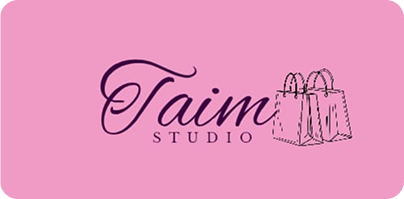
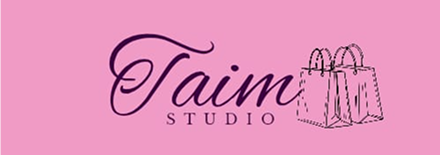
heading in bouquet added 2 more bouquets landing page edited. add separate bouquet coupon codes

diff --git a/src/components/CheckoutForm.jsx b/src/components/CheckoutForm.jsx
@@ -16,6 +16,7 @@ export default function CheckoutForm({ totalPrice, deliveryCharge, onSubmit, onB
   const [isCouponApplied, setIsCouponApplied] = useState(false);
   const [couponMessage, setCouponMessage] = useState('');
   const [appliedCouponCode, setAppliedCouponCode] = useState('');
+  const [couponDiscount, setCouponDiscount] = useState(0);
 
   const handleChange = (e) => {
     const { name, value } = e.target;
@@ -27,6 +28,21 @@ export default function CheckoutForm({ totalPrice, deliveryCharge, onSubmit, onB
 
   const handleApplyCoupon = () => {
     const trimmedCode = couponCode.trim().toUpperCase();
+    if (orderType === 'bouquets') {
+      if (trimmedCode === 'BLOOM10') {
+        const discount = Math.round(totalPrice * 0.1);
+        setAppliedCouponCode('BLOOM10');
+        setIsCouponApplied(true);
+        setCouponDiscount(discount);
+        setCouponMessage('🎉 10% discount applied!');
+      } else {
+        setIsCouponApplied(false);
+        setCouponDiscount(0);
+        setCouponMessage('Invalid coupon code');
+      }
+      return;
+    }
+
     if (trimmedCode.endsWith('LOVE14')) {
       setAppliedCouponCode(couponCode.trim());
       setIsCouponApplied(true);
@@ -45,7 +61,8 @@ export default function CheckoutForm({ totalPrice, deliveryCharge, onSubmit, onB
     setAppliedCouponCode('');
     setIsCouponApplied(false);
     setCouponMessage('');
-    if (onFreebieRemove) {
+    setCouponDiscount(0);
+    if (orderType !== 'bouquets' && onFreebieRemove) {
       onFreebieRemove();
     }
   };
@@ -69,12 +86,13 @@ export default function CheckoutForm({ totalPrice, deliveryCharge, onSubmit, onB
       onSubmit({
         ...formData,
         couponCode: appliedCouponCode,
+        couponDiscount,
       });
     }
   };
 
   const subtotal = totalPrice;
-  const finalTotal = subtotal + deliveryCharge;
+  const finalTotal = subtotal - couponDiscount + deliveryCharge;
 
   return (
     <div className="screen checkout-screen">
@@ -96,10 +114,17 @@ export default function CheckoutForm({ totalPrice, deliveryCharge, onSubmit, onB
             <span>₹{subtotal}</span>
           </div>
           {isCouponApplied && (
-            <div className="summary-row freebie-added">
-              <span>🎁 Surprise Freebie:</span>
-              <span>FREE</span>
-            </div>
+            orderType === 'bouquets' ? (
+              <div className="summary-row discount-row">
+                <span>Coupon (BLOOM10) - 10%:</span>
+                <span>-₹{couponDiscount}</span>
+              </div>
+            ) : (
+              <div className="summary-row freebie-added">
+                <span>🎁 Surprise Freebie:</span>
+                <span>FREE</span>
+              </div>
+            )
           )}
           {deliveryCharge > 0 && (
             <div className="summary-row">
@@ -113,39 +138,37 @@ export default function CheckoutForm({ totalPrice, deliveryCharge, onSubmit, onB
           </div>
         </div>
 
-        {orderType !== 'bouquets' && (
-          <div className="coupon-section">
-            <h3>Have a Coupon Code?</h3>
-            <div className="coupon-input-group">
-              <input
-                type="text"
-                value={couponCode}
-                onChange={(e) => setCouponCode(e.target.value)}
-                placeholder="Enter coupon code"
-                className="coupon-input"
-                disabled={isCouponApplied}
-              />
-              <button
-                type="button"
-                onClick={handleApplyCoupon}
-                className="btn btn-apply"
-                disabled={isCouponApplied}
-              >
-                Apply
-              </button>
-            </div>
-            {couponMessage && (
-              <p className={`coupon-message ${isCouponApplied ? 'success' : 'error'}`}>
-                {couponMessage}
-              </p>
-            )}
-            {isCouponApplied && (
-              <p className="remove-coupon" onClick={handleRemoveCoupon}>
-                Remove coupon
-              </p>
-            )}
+        <div className="coupon-section">
+          <h3>Have a Coupon Code?</h3>
+          <div className="coupon-input-group">
+            <input
+              type="text"
+              value={couponCode}
+              onChange={(e) => setCouponCode(e.target.value)}
+              placeholder={orderType === 'bouquets' ? 'Enter Coupon Code' : 'Enter coupon code'}
+              className="coupon-input"
+              disabled={isCouponApplied}
+            />
+            <button
+              type="button"
+              onClick={handleApplyCoupon}
+              className="btn btn-apply"
+              disabled={isCouponApplied}
+            >
+              Apply
+            </button>
           </div>
-        )}
+          {couponMessage && (
+            <p className={`coupon-message ${isCouponApplied ? 'success' : 'error'}`}>
+              {couponMessage}
+            </p>
+          )}
+          {isCouponApplied && (
+            <p className="remove-coupon" onClick={handleRemoveCoupon}>
+              Remove coupon
+            </p>
+          )}
+        </div>
 
         {/* Form */}
         <form onSubmit={handleSubmit} className="checkout-form">

diff --git a/src/data/catalog.js b/src/data/catalog.js
@@ -91,8 +91,8 @@ export const VALENTINE_DAYS = [
       {
         category: "Others Products",
         items: [
-          { id: "vo1", name: "Silver Couple Rings", price: 2499, image: "/products/promise_silver_rings_2499.jpeg" },
           { id: "vo2", name: "DIY Ceramic Mug", price: 99, image: "/products/diy_ceramic_mug_99.jpeg" },
+          { id: "vo1", name: "Silver Couple Rings", price: 2499, image: "/products/promise_silver_rings_2499.jpeg" },
         ],
       },
       
@@ -120,10 +120,12 @@ export const VALENTINE_DAYS = [
 export const DELIVERY_CHARGE = 250;
 
 export const BOUQUETS = [
-  { id: "vb1", name: "Mini Bouquet", price: 299, image: "/products/val_bouquet_299.jpeg" },
-  { id: "vb2", name: "Standard Bouquet", price: 599, image: "/products/val_bouquet_599.jpeg" },
-  { id: "vb3", name: "Premium Bouquet", price: 1199, image: "/products/val_bouquet_1199.jpeg" },
-  { id: "vb4", name: "Luxury Bouquet", price: 1499, image: "/products/val_bouquet_1499.jpeg" },
+  { id: "vb1", name: "Polaroid Bouquet", price: 299, height: 12, image: "/products/val_bouquet_299.jpeg" },
+  { id: "vb2", name: "Clock Lip Bouquet", price: 499, height: 14, image: "/products/val_bouquet_599.jpeg" },
+  { id: "vb6", name: "Basic Bouquet Hamper", price: 599, height: 16, image: "/products/basic-bouquet-hamper-599.jpeg" },
+  { id: "vb5", name: "Standard Bouquet Hamper", price: 999, height: 18, image: "/products/standard-boquet-999.jpeg" },
+  { id: "vb3", name: "Crochet Heart Bouquet", price: 1199, height: 20, image: "/products/val_bouquet_1199.jpeg" },
+  { id: "vb4", name: "Premium Bouquet Hamper", price: 1499, height: 22, image: "/products/val_bouquet_1499.jpeg" },
 ];
 
 export const SURPRISE_FREEBIE = {

diff --git a/src/components/OrderSummary.jsx b/src/components/OrderSummary.jsx
@@ -16,7 +16,8 @@ export default function OrderSummary({
   onEdit,
   onBack,
 }) {
-  const finalTotal = totalPrice + deliveryCharge;
+  const couponDiscount = formData?.couponDiscount || 0;
+  const finalTotal = totalPrice - couponDiscount + deliveryCharge;
 
   const generateWhatsAppMessage = () => {
     const selectedLines = orderDays.map((day) => {
@@ -45,7 +46,12 @@ export default function OrderSummary({
       ? `\n\nSurprise Freebie: ${freebieItem.name} - FREE!\nCOUPON APPLIED: ${formData.couponCode}`
       : '';
 
-    const totalLine = `Subtotal: ₹${totalPrice}${deliveryCharge > 0 ? `\nDelivery: ₹${deliveryCharge}` : '\nDelivery: Free (Bathinda)'}`;
+    const discountInfo =
+      orderType === 'bouquets' && couponDiscount > 0
+        ? `\nCoupon (BLOOM10): -₹${couponDiscount}`
+        : '';
+
+    const totalLine = `Subtotal: ₹${totalPrice}${discountInfo}${deliveryCharge > 0 ? `\nDelivery: ₹${deliveryCharge}` : '\nDelivery: Free (Bathinda)'}`;
 
     const headerLine =
       orderType === 'bouquets'
@@ -166,6 +172,12 @@ Please confirm.`;
               <span>Subtotal:</span>
               <span>₹{totalPrice}</span>
             </div>
+            {couponDiscount > 0 && (
+              <div className="price-detail">
+                <span>Coupon (BLOOM10) - 10%:</span>
+                <span>-₹{couponDiscount}</span>
+              </div>
+            )}
             {deliveryCharge > 0 && (
               <div className="price-detail">
                 <span>Delivery Charge:</span>

diff --git a/src/App.jsx b/src/App.jsx
@@ -168,6 +168,8 @@ function App() {
   const allSelectedItems =
     orderFlow === 'bouquets' ? bouquetSelection : Object.values(selectedItemsByDay).flat();
 
+  const sortedBouquets = [...BOUQUETS].sort((a, b) => (a.height || 0) - (b.height || 0));
+
   const totalPrice = allSelectedItems.reduce((sum, item) => sum + item.price * (item.qty || 1), 0);
 
   const deliveryCharge =
@@ -225,7 +227,7 @@ function App() {
   if (step === STEPS.BOUQUETS) {
     content = (
       <DayBuilder
-        day={{ id: 'bouquets', name: 'Bouquets', options: BOUQUETS }}
+        day={{ id: 'bouquets', name: 'Bouquets', options: sortedBouquets }}
         selectedItems={bouquetSelection}
         onSelectProduct={handleBouquetSelect}
         onRemoveItem={handleBouquetRemove}

diff --git a/src/App.css b/src/App.css
@@ -72,17 +72,18 @@ body {
 }
 
 .landing-content.landing-simple {
-  gap: 24px;
+  gap: 0;
   justify-content: flex-start;
-  padding: 16px;
+  padding: 0;
 }
 
 .landing-hero {
   width: 100%;
-  max-width: 340px;
+  max-width: none;
   height: auto;
-  border-radius: 18px;
-  box-shadow: 0 10px 30px rgba(0, 0, 0, 0.08);
+  border-radius: 0;
+  box-shadow: none;
+  display: block;
 }
 
 .landing-actions {
@@ -90,10 +91,13 @@ body {
   max-width: 340px;
   display: flex;
   flex-direction: column;
-  gap: 12px;
+  gap: 20px;
+  align-items: stretch;
+  padding: 120px 16px 32px;
 }
 
 .landing-action {
+  width: 100%;
   padding: 16px 24px;
   border-radius: 999px;
   border: 1.5px solid #F3A3C8;

diff --git a/src/components/DayBuilder.jsx b/src/components/DayBuilder.jsx
@@ -51,10 +51,13 @@ export default function DayBuilder({
   const dayTaglines = {
     'propose-day': 'Seal The Moment',
     'chocolate-day': 'Sweeten The Love',
+    'hug-day': 'A Warm Embrace',
+    'rose-day': 'Blooming Love',
     'teddy-day': 'Soft. Cute. Yours.',
     'promise-day': 'Together, No Matter What',
     'kiss-day': 'Seal It With Love',
     'valentines-day': 'Love, Perfected',
+    bouquets: 'Pick Your Perfect Bouquet',
   };
 
   const subtitle = dayTaglines[day.id] || '';
